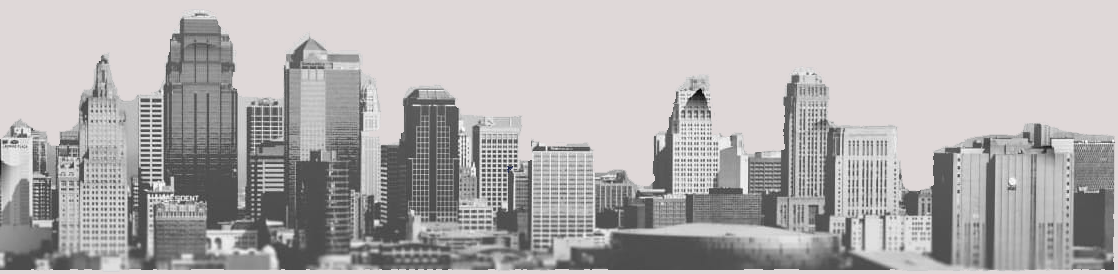
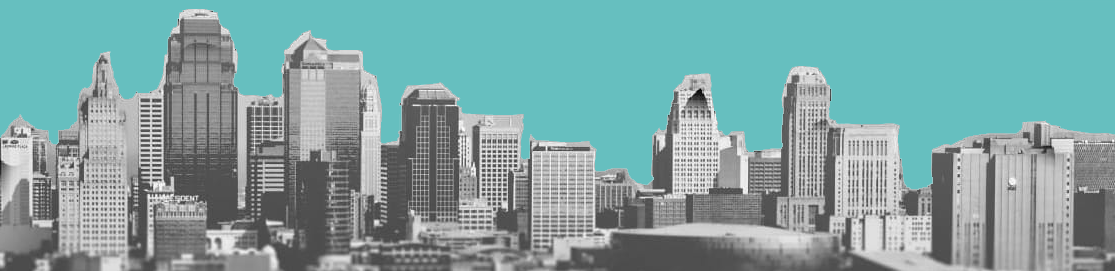
skyscraper image fix

diff --git a/client/src/components/LogInContainer.js b/client/src/components/LogInContainer.js
@@ -20,7 +20,7 @@ const LogInContainer = (props) => {
 
             </div>
              <div className="Apper_Aside_image">
-                <img src="/skyscraper.jpg" alt="skyscraper"></img>
+                <img src="/skyscraper.png" alt="skyscraper"></img>
               </div>
           </div>
           <div className="Apper__Form">
